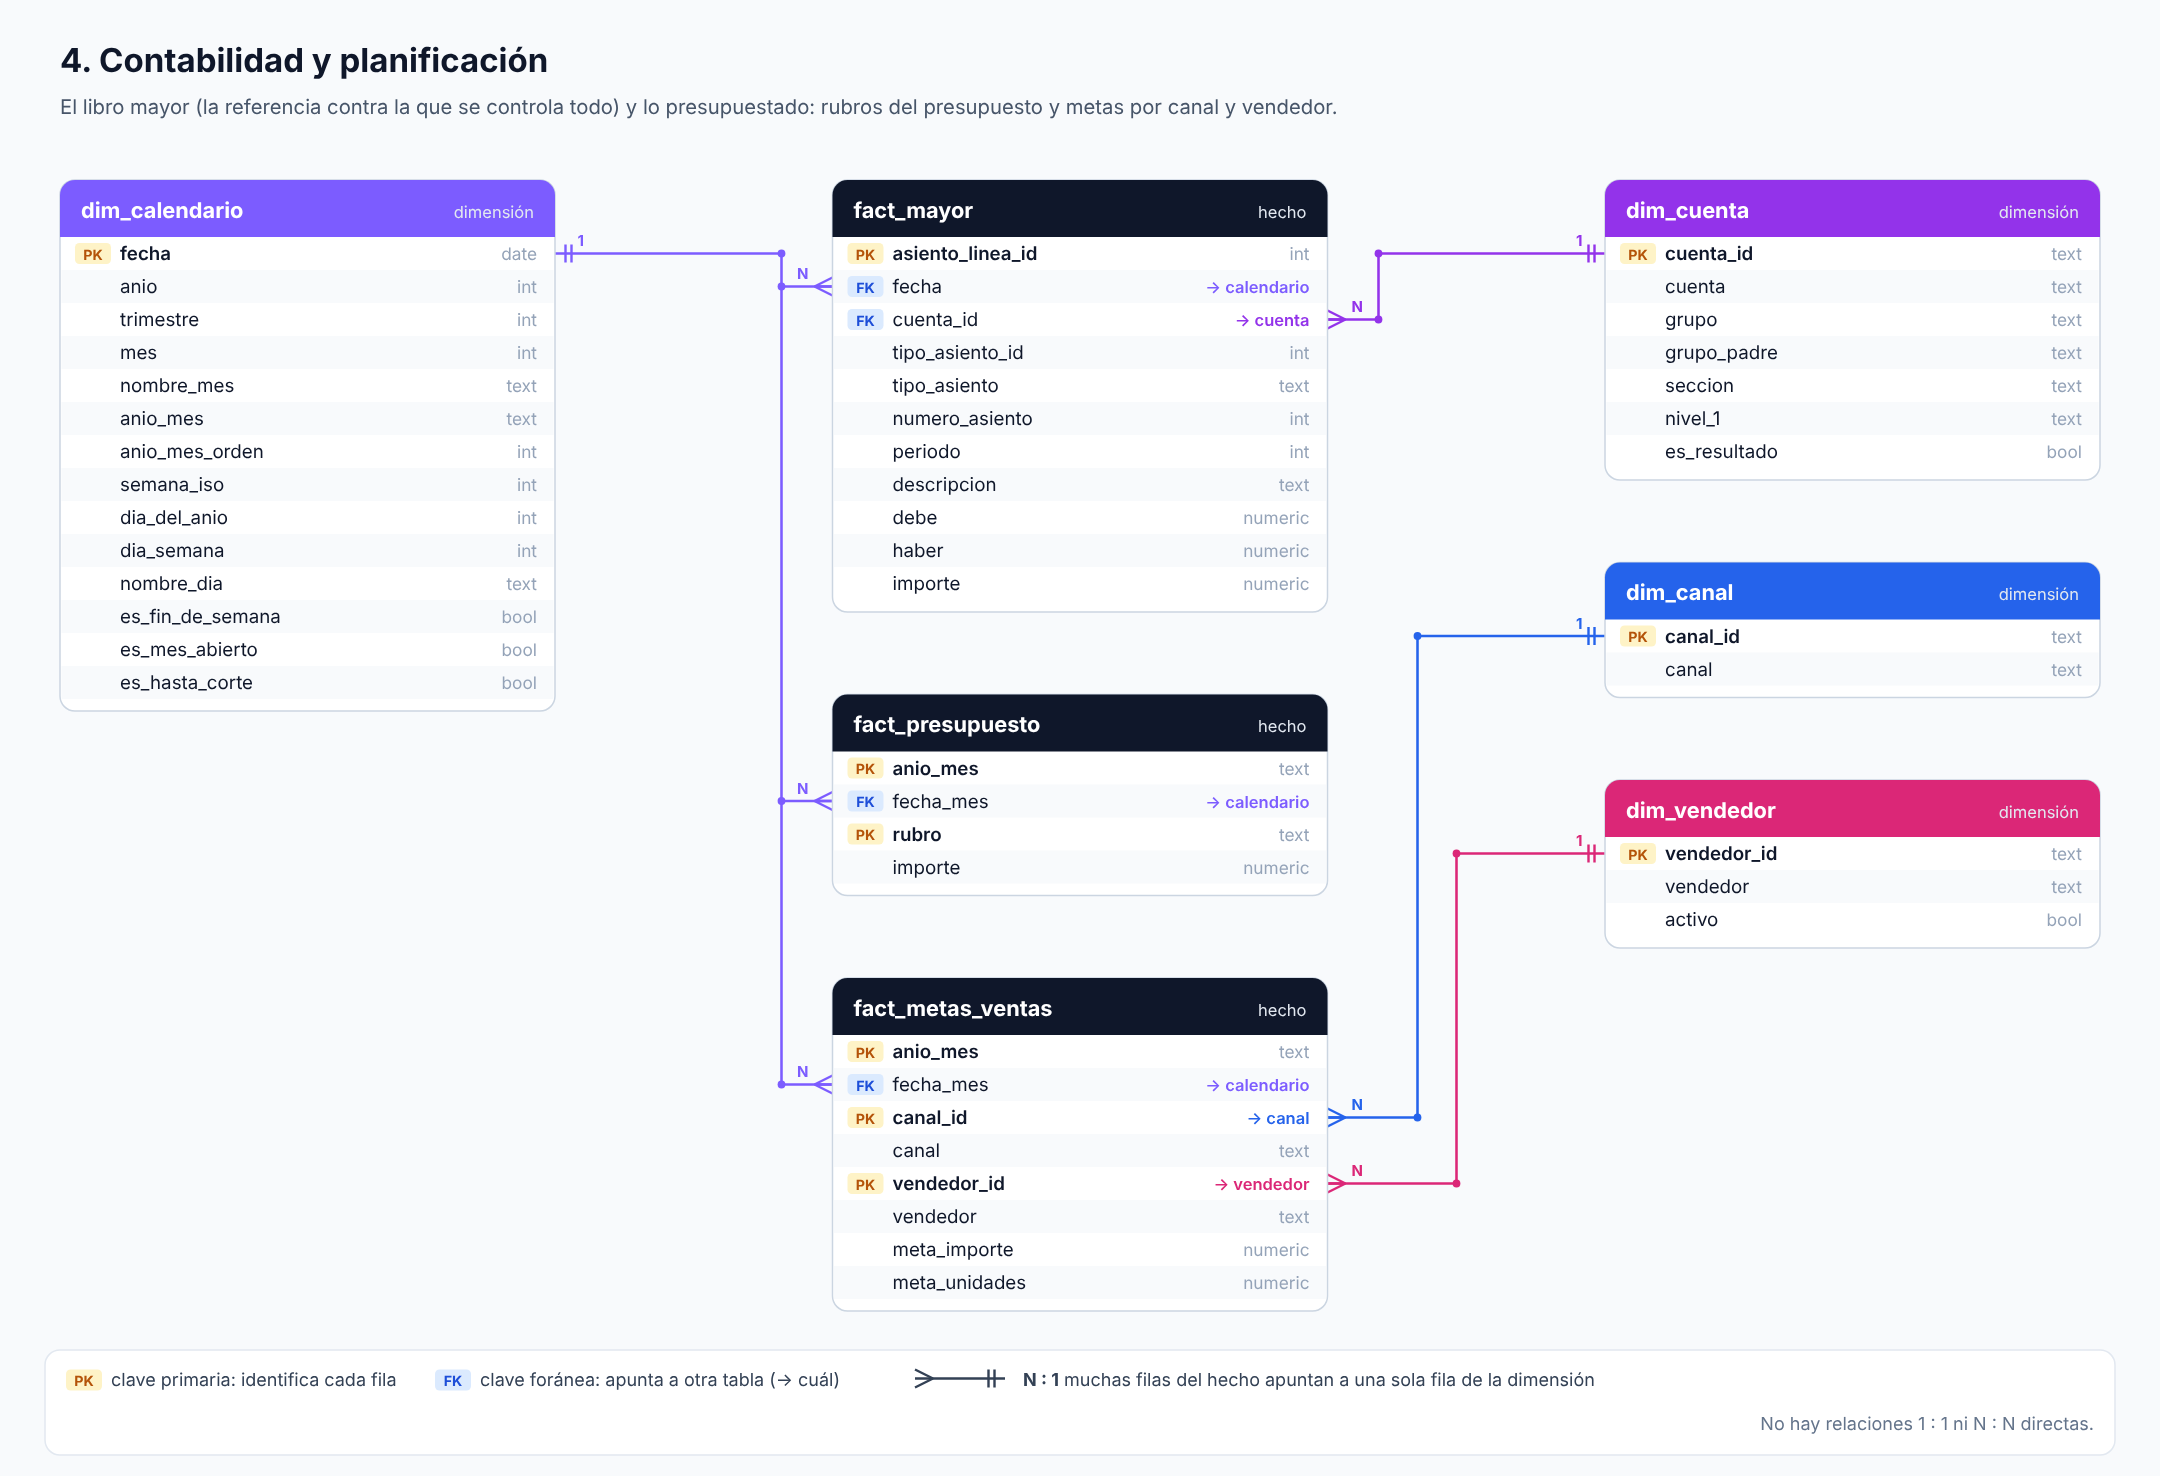
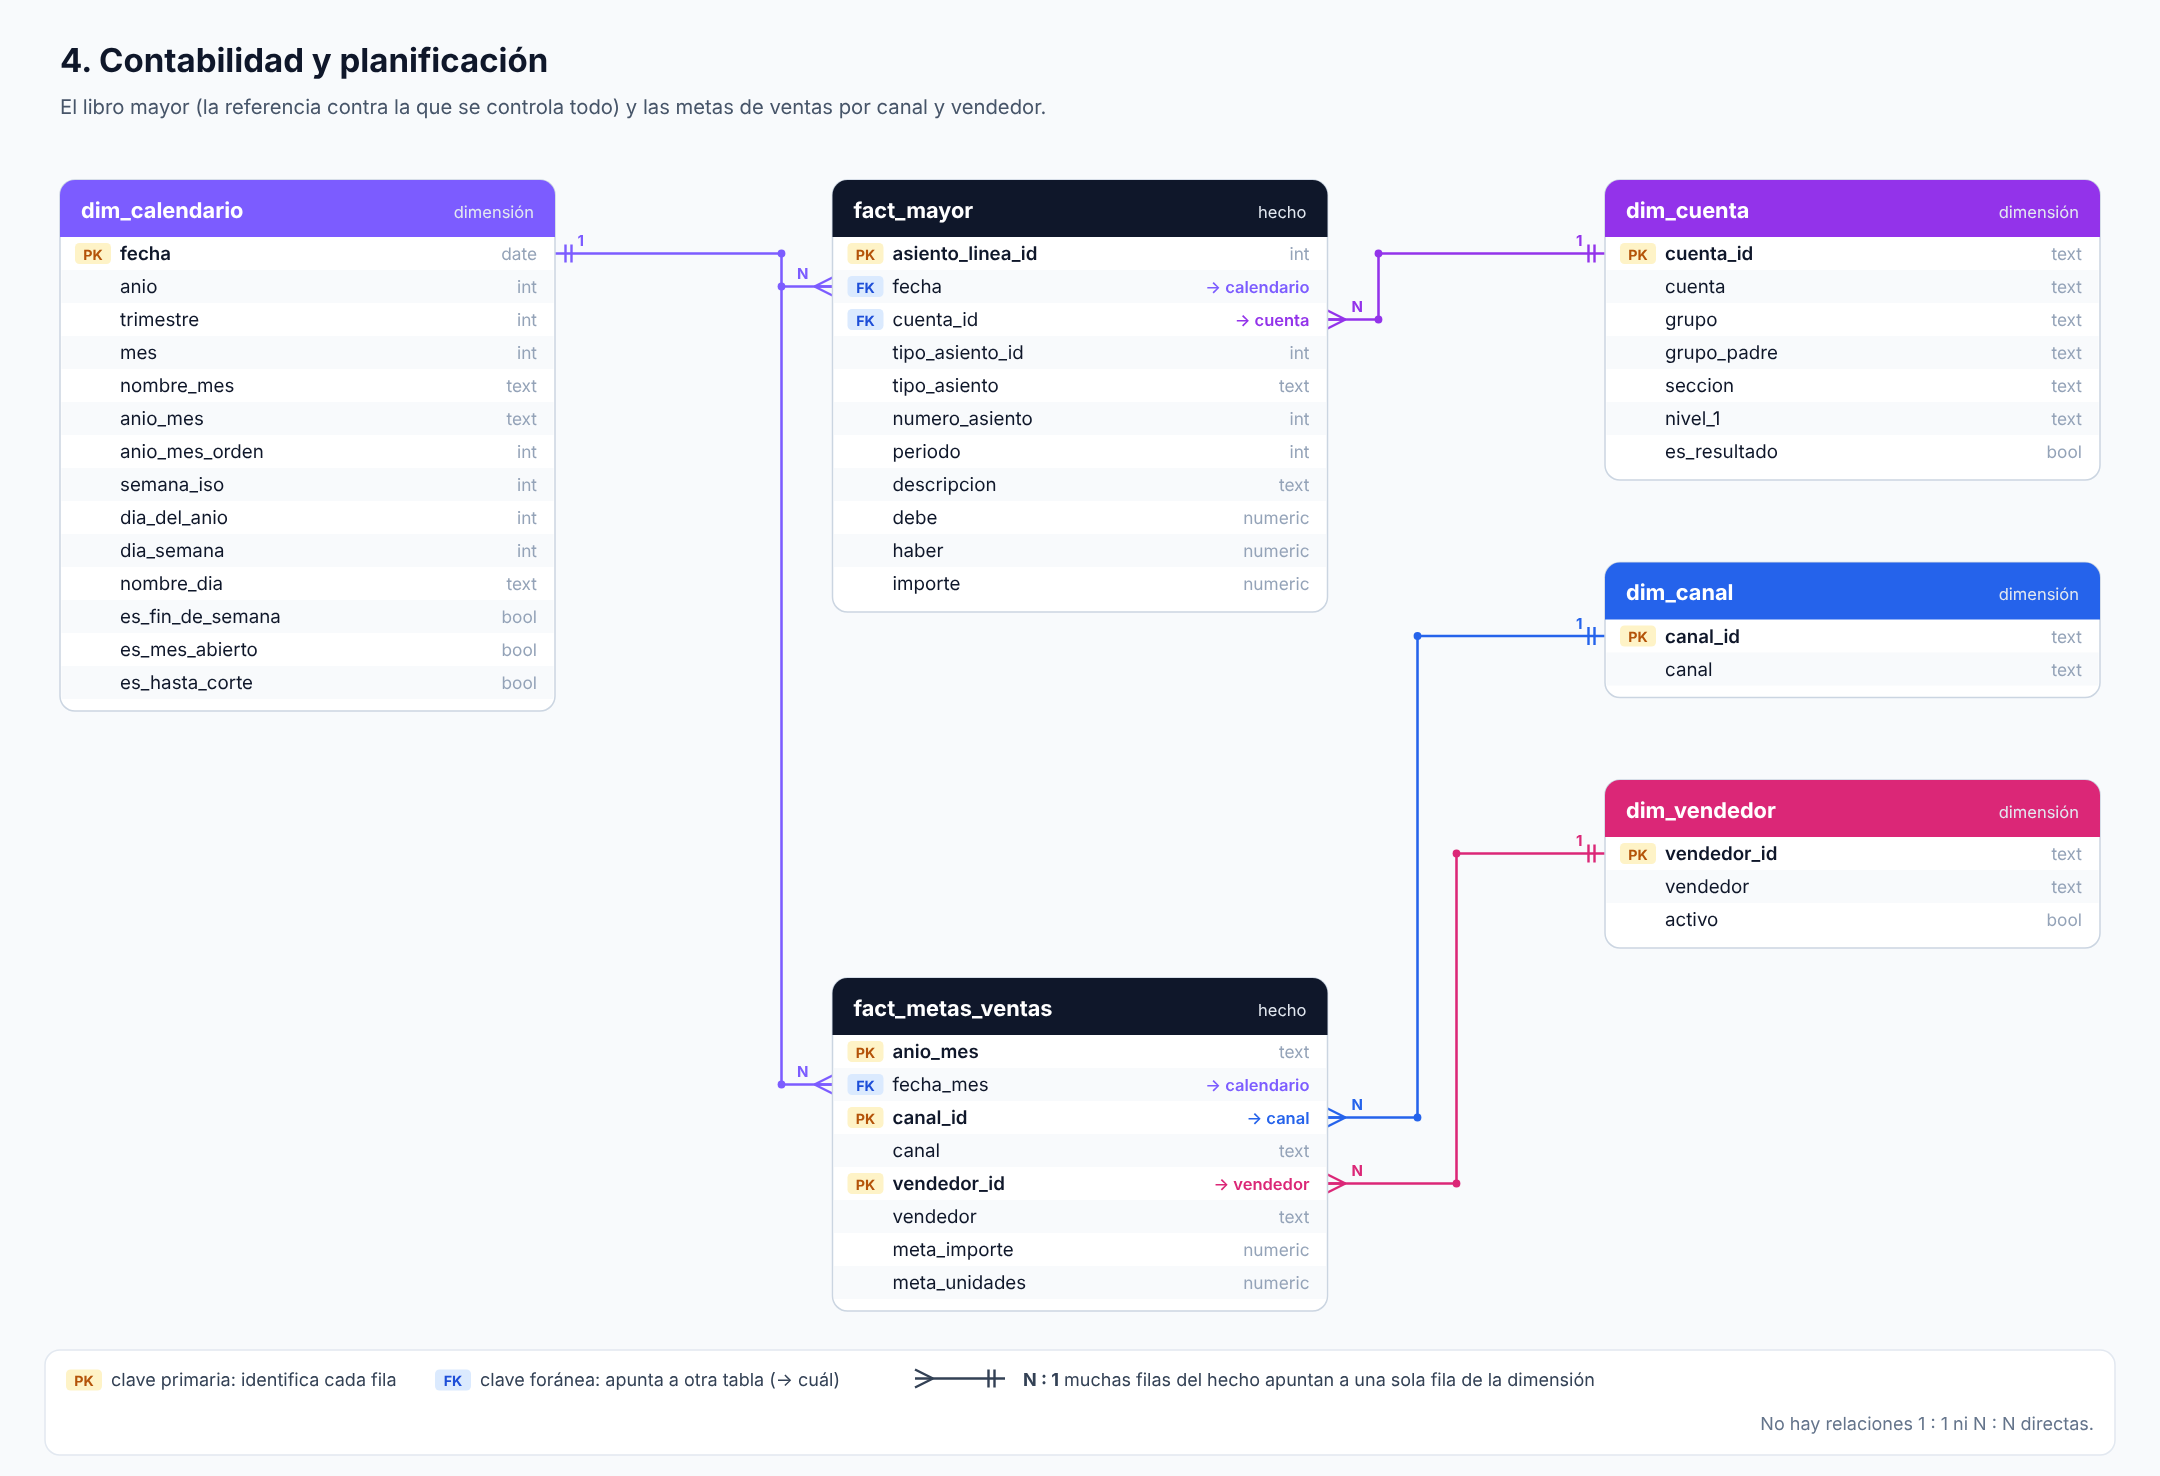
Documentación: se saca el presupuesto, que no forma parte del proyecto
Claude-Session: https://claude.ai/code/session_01BerP5tpH3fTpPqyTaaGzu5

Changed region(s): [[0.3722, 0.4675, 0.6204, 0.5921], [0.3102, 0.0623, 0.6204, 0.0935], [0.5894, 0.561, 0.6204, 0.5921]]

diff --git a/docs/modelo_datos.md b/docs/modelo_datos.md
@@ -2,7 +2,7 @@
 
 El warehouse está modelado en **estrella** (modelo dimensional de Kimball):
 
-- **Hechos:** lo que pasa en el negocio y se puede medir. Una venta, un cobro, una compra, un movimiento de stock, un asiento contable. Hay 13.
+- **Hechos:** lo que pasa en el negocio y se puede medir. Una venta, un cobro, una compra, un movimiento de stock, un asiento contable. Hay 12.
 - **Dimensiones:** desde dónde se mira lo que pasó. Cuándo (calendario), a quién (cliente), qué (producto), por dónde (canal), quién vendió (vendedor), desde dónde (depósito), a quién se compró (proveedor) y en qué cuenta contable. Hay 8.
 
 Las 8 dimensiones son **compartidas**: el mismo cliente de una venta es el mismo cliente de un cobro. Por eso se puede cruzar "cuánto le vendí" con "cuánto me pagó" sin conciliar a mano.
@@ -11,7 +11,7 @@ Las 8 dimensiones son **compartidas**: el mismo cliente de una venta es el mismo
 
 ![Modelo estrella de ventas](modelo_estrella_ventas.png)
 
-`fact_ventas` es el centro del modelo: una fila por cada línea de factura, conectada a sus seis dimensiones. Los otros doce hechos siguen la misma lógica.
+`fact_ventas` es el centro del modelo: una fila por cada línea de factura, conectada a sus seis dimensiones. Los otros once hechos siguen la misma lógica.
 
 ## El modelo completo, por área
 
@@ -39,7 +39,7 @@ Cada entrada y salida de mercadería, y la foto del stock al cierre de cada mes.
 
 ### 4. Contabilidad y planificación
 
-El libro mayor, que es la referencia contra la que se controla todo, y lo presupuestado.
+El libro mayor, que es la referencia contra la que se controla todo, y las metas de ventas.
 
 ![Contabilidad y planificación](modelo_4_contabilidad_plan.png)
 
@@ -60,10 +60,9 @@ La decisión más importante de un hecho es su **grano**: qué es exactamente un
 | `fact_stock_movimiento` | Una entrada o salida de stock | Transaccional | No se usa (el stock sale de la foto de cierre) |
 | `fact_stock_saldo` | Producto × depósito × fecha de cierre | Foto periódica | Días de stock, mercadería que sobra y que falta |
 | `fact_mayor` | Una línea de asiento contable | Transaccional | Estado de resultados, márgenes, punto de equilibrio, caja y bancos |
-| `fact_presupuesto` | Mes × rubro del presupuesto | Plan | No se usa |
 | `fact_metas_ventas` | Mes × canal × vendedor | Plan | No se usa |
 
-El modelo se armó para un proyecto más amplio y después el tablero se simplificó: los hechos que dicen "No se usa" quedan en el warehouse, listos para crecer (por ejemplo, comparar contra el presupuesto o analizar compras), pero el tablero de hoy no los muestra.
+El modelo se armó para un proyecto más amplio y después el tablero se simplificó: los hechos que dicen "No se usa" quedan en el warehouse, listos para crecer (por ejemplo, comparar contra las metas o analizar compras), pero el tablero de hoy no los muestra.
 
 **Transaccional:** cada fila es un evento que no cambia. **Acumulativo:** cada fila es un documento que se va completando a medida que avanza (un pedido se despacha, se factura y se cobra). **Foto periódica:** cada fila es el estado de algo a una fecha.
 
@@ -84,7 +83,6 @@ Qué dimensiones usa cada hecho. Es la forma rápida de ver qué preguntas se pu
 | `fact_stock_movimiento` | ● | ● | ● | | | ● | | |
 | `fact_stock_saldo` | ● | | ● | | | ● | | |
 | `fact_mayor` | ● | | | | | | | ● |
-| `fact_presupuesto` | mes | | | | | | | |
 | `fact_metas_ventas` | mes | | | ● | ● | | | |
 
 ## Decisiones de modelado

diff --git a/README.md b/README.md
@@ -15,14 +15,14 @@ El dueño de una pyme distribuidora tiene los datos en el ERP, pero no las respu
 | Etapa | Qué incluye | Herramientas |
 | --- | --- | --- |
 | ERP | webERP en Docker con 23 meses de operación simulada (octubre 2024 a agosto 2026): 88.540 líneas de venta, 123 clientes, 1.460 productos y 15 proveedores, con contabilidad por partida doble | MariaDB, Docker, Python |
-| Extracción y carga | Las 145 tablas del ERP, el presupuesto 2026 en Excel y la inflación (INDEC) y el dólar MEP desde APIs públicas | Python, pandas, SQLAlchemy |
-| Data warehouse | Capas `raw` → `staging` → `marts` → `kpi`, con un modelo dimensional de 13 hechos y 8 dimensiones | PostgreSQL (Supabase) |
+| Extracción y carga | Las 145 tablas del ERP y la inflación (INDEC) y el dólar MEP desde APIs públicas | Python, pandas, SQLAlchemy |
+| Data warehouse | Capas `raw` → `staging` → `marts` → `kpi`, con un modelo dimensional de 12 hechos y 8 dimensiones | PostgreSQL (Supabase) |
 | Calidad de datos | 63 controles en cuatro ejes (aprovechamiento, cobertura, frescura y veracidad) que avisan qué tan confiable es cada dato | SQL |
 | Tablero | Cuatro pestañas para el dueño, con el mes de agosto 2026, en pesos de hoy o en dólares MEP | HTML, JavaScript, Chart.js |
 
 ![Arquitectura: ERP, warehouse en capas y tablero](docs/arquitectura.png)
 
-**El warehouse es más amplio que el tablero.** El proyecto empezó con un tablero más grande (balance, presupuesto, flujo de fondos) y después se simplificó para que el dueño vea solo lo esencial. El warehouse conserva todo lo que se cargó (por ejemplo, el presupuesto 2026 y las compras), pero el tablero de hoy usa solo una parte. El [modelo de datos](docs/modelo_datos.md) indica qué hechos usa el tablero y cuáles no.
+**El warehouse es más amplio que el tablero.** El proyecto empezó con un tablero más grande (balance y flujo de fondos, entre otros) y después se simplificó para que el dueño vea solo lo esencial. El warehouse conserva todo lo que se cargó (por ejemplo, las compras y las metas de ventas), pero el tablero de hoy usa solo una parte. El [modelo de datos](docs/modelo_datos.md) indica qué hechos usa el tablero y cuáles no.
 
 ## El tablero
 
